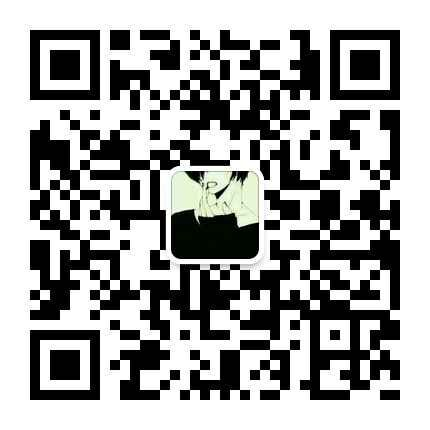
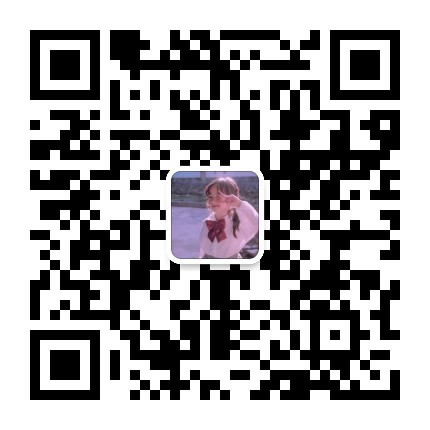
added codes

diff --git a/index.html b/index.html
@@ -9,7 +9,7 @@
     <meta name="apple-mobile-app-status-bar-style" content="black">
    
     <meta name="description" content="一只叫做黑夜的阿宅，想成为家喻户晓的大侠">
-    <meta name="keywords" content="二次元，宅属性，前端，编程，全栈，绘画，设计">
+    <meta name="keywords" content="爬虫，后端，前端，编程，全栈，设计">
     <meta http-equiv="X-UA-Compatible" content="IE=edge,chrome=1" />
     <meta http-equiv="X-UA-Compatible" content="IE=edge">
     <meta name="author" content="cononico">
@@ -31,7 +31,7 @@
                 <ul>
                     <li>&nbsp;&nbsp;&nbsp;&nbsp;&nbsp;&nbsp;&nbsp;&nbsp;</li>
                     <li>&nbsp;&nbsp;<img class="logo_img" src="images/upload/head.jpg"></li>
-                    <li><h2>描述</h2></li>
+                    <li><h2>崔永华的简历</h2></li>
                 </ul>
             </nav>
         </div>
@@ -67,7 +67,7 @@
                             <span class="github_icon"></span>
                             <span class="github_text"><p class="item_name">GitHub</p></span>
                         </a>
-                        <a href="https://github.com/cuiyonghua6" class="weibo_a" id="weibo_a" target="_blank">
+                        <a href="http://123.56.67.212:9005" class="weibo_a" id="weibo_a" target="_blank">
                             <span class="weibo_icon"></span>
                             <span class="weibo_text"><p class="item_name">个人网站</p> </span>
                         </a>
@@ -90,14 +90,13 @@
                         </div>
                     </div>
                 </div>
-                <h1 class="title">个人信息-黄石湖</h1>
+                <h1 class="title">个人信息</h1>
                 <!-- <h2 class="title_h2">千里之行，始于足下</h2> -->
                 <div id="box01_text">
-                    <p class="box01_p">学&nbsp;&nbsp;校：郑州大学&nbsp;&nbsp;&nbsp;&nbsp;&nbsp;&nbsp;专业：计算机科学与技术</p>
-                    <p class="box01_p">学&nbsp;&nbsp;校：郑州大学&nbsp;&nbsp;&nbsp;&nbsp;&nbsp;&nbsp;手机号：13269261967</p>
-                    <p class="box01_p">学&nbsp;&nbsp;校：郑州大学&nbsp;&nbsp;&nbsp;&nbsp;&nbsp;&nbsp;手机号：13269261967</p>
-                    <p class="box01_p">手机号：13269261967    英&nbsp;&nbsp;语：英语六级</p>
-                    <p class="box01_p">邮&nbsp;&nbsp;箱：cshiua_78@163.com</p>
+                    <p class="box01_p">姓名:崔永华&nbsp;&nbsp;学历:本科&nbsp;&nbsp;专业：计算机科学与技术</p>
+                    <p class="box01_p">学校:郑州大学(211)&nbsp;&nbsp;现居住地:北京</p>
+                    <p class="box01_p">英语水平:英语六级&nbsp;&nbsp;手机号：13269261967&nbsp;&nbsp;邮箱:cui_yonghua6@163.com</p>
+                    <p class="box01_p"></p>
                 </div>
             </div>
             <div class="arrow_div">
@@ -113,10 +112,10 @@
                     <div class='bar mint' data-percent='70' data-skill='Python'></div>
                     <div class='bar red' data-percent='50' data-skill='Java'></div>
                     <div class='bar lila' data-percent='50' data-skill='前端(JavaScript, jQuery, Ajax)'></div>
-                    <div class='bar orange' data-percent='50' data-skill='Node.js'></div>
-                    <div class='bar gray' data-percent='30' data-skill='Java || C++'></div>
-                    <div class="bar blue" data-percent='50' data-skill='PS&AE&PR&AI'></div>
-                    <div class="bar green" data-percent='60' data-skill='绘画'></div>
+                    <div class='bar orange' data-percent='50' data-skill='数据库'></div>
+                    <div class='bar gray' data-percent='30' data-skill='linux, shell等'></div>
+                    <div class="bar blue" data-percent='55' data-skill='flask'></div>
+                    <div class="bar green" data-percent='80' data-skill='爬虫，反爬'></div>
                 </div>
                 <div id="box02_text">
                     <h1>About Skill</h1>
@@ -128,9 +127,9 @@
                     <p>5. 熟练掌握linux的常用命令，git，shell，熟悉Docker等部署容器；</p>
                     <p>6. 掌握常见的数据结构和算法，以及设计模式；</p>
                     <p>7. 熟练掌握MySQL，PostgreSQL，Redis，MongoDB等常用数据库；</p>
-                    <p>8. 熟练使用Django框架和Flask框架，有生产环境Django开发经验；</p>
+                    <p>8. 熟练使用Django框架和Flask框架，有生产环境flask开发经验；</p>
                     <p>9. 了解Hadoop大数据生态，熟悉kafka，ElasticSearch，HDFS，Hive等。</p>
-                    <p>想成为一名</p>
+                    <p>10. 熟练使用eclipse, PyCharm, Idea, Fidder, VS Code等工具</p>
                 </div>
                 <div class="clear"></div>
             </div>
@@ -148,30 +147,32 @@
                 <ul id="timeUl" class="timeUl">
                     <li>
                         <div>
-                            <h1>2012-Now</h1>
-                            <p>淄博职业学院</p>
-                            <p>专业：机械制造与自动化</p>
-                            <p>在风气不佳的考试战场中险些挂科(poi~)</p>
-                            <p>最喜欢的科目是LOL<p>
-                            <p>现在正在愁于毕业设计</p>
+                            <h1>2014-2018</h1>
+                            <p>郑州大学</p>
+                            <p>专业：计算机科学与技术</p>
+                            <p>大学学习专业课程有java, 操作系统, html+css</p>
+                            <p>Linux, 数据库概论, 计算机网络, JavaScript<p>
+                            <p>计算机组成原理, 数据结构, MySQL, 软件工程等;</p>
+                            <p>并基于java完成酒店管理等项目</p>
                         </div>
                     </li>
                     <li>
                         <div>
-                            <h1>2015.7-2015.8</h1>
-                            <p>青花瓷酒店</p>
-                            <p>服务员</p>
-                            <p>没学到什么东西</p>
-                           <p>前途多艰</p>
+                            <h1>2018.4-2019.3</h1>
+                            <p>入职：北京易云时代有限公司</p>
+                            <p>职位：java后端工程师</p>
+                            <p>主要负责开发java后端，基于SSM，spring_boot等框架开发</p>
+                           <p>和维护现有项目。</p>
                         </div>
                     </li>
                     <li>
                        <div>
-                            <h1>2016.3-2016.4</h1>
-                            <p>小菜馆</p>
-                            <p>传菜生</p>
-                            
-                            <p>前途多艰</p>
+                            <h1>2019.4-今</h1>
+                            <p>入职：北京香侬慧语有限公司</p>
+                            <p>职位：后端工程师, 爬虫工程师</p>
+                            <p>主要负责爬虫需求, 包括日常需求，</p>
+                            <p>。。。</p>
+                            <p>。。。</p>
                         </div>
                     </li>
                     <li>
@@ -209,20 +210,20 @@
                                 <img src="images/upload/kapok.jpg">
                             </div>
                             <div class="hobby_img_info">
-                                <h1>绘画</h1>
-                                <h2>手绘&CG</h2>
+                                <h1>学习专业</h1>
+                                <h2>爬虫&后端</h2>
                             </div>
                         </div>
                         <div class="hobby_text_div">
                             <div class="hobby_img_info_mob">
-                                <h1>绘画/<a>手绘&CG</a></h1>
+                                <h1>爬虫/<a>手绘&CG</a></h1>
                             </div>
                             <p class="about_p">
-                                对于绘画的热爱一部分来自于对ACG的热爱,小学时就开始拿着笔头被要烂的铅笔瞎画,
-                                可惜父母和我都没发现这是个值得培养的爱好,以至于现在发展为一个手残.
+                                爬取需要的数据，破解各种反爬，很有成就感。。。
+                                。。
                             </p>
                             <p>
-                                比较擅长铅笔手绘动漫人物,SAI动漫人物的绘制(我是手残，上色渣渣).喜欢的画师是樋上至.
+                                比较擅长爬虫.
                                 </a>
                             </p>
                         </div>
@@ -234,20 +235,20 @@
                                 <img src="images/upload/acg.png">
                             </div>
                             <div class="hobby_img_info">
-                                <h1>ACG</h1>
-                                <h2>动漫&视频&lol</h2>
+                                <h1>休闲</h1>
+                                <h2>电影&音乐</h2>
                             </div>
                         </div>
                         <div class="hobby_text_div">
                             <div class="hobby_img_info_mob">
-                                <h1>ACG/<a>动漫&视频&lol</a></h1>
+                                <h1>ACG/<a>动漫&视频</a></h1>
                             </div>
                             <p class="about_p">
-                                入宅作《犬夜叉》,看完《Angle Beats!》深陷泥潭,最喜欢K社的作品(包括Galgame),
-                                崇拜麻枝准,喜欢的歌手是ClariS.是个典型的萝莉控重度患者.
+                                喜欢电影，如：与神同行，当幸福来敲门等。音乐。。
+                                。。
                             </p>
                             <p>
-                                动漫对我而言是和文学一样的文化,最具感染力的抒情方式,将来希望自己工作在二次元的领域.
+                                时常感触良多
                             </p>
                         </div>
                     </li>
@@ -258,20 +259,20 @@
                                 <img src="images/upload/reading.jpg">
                             </div>
                             <div class="hobby_img_info">
-                                <h1>文学</h1>
-                                <h2>历史&写作</h2>
+                                <h1>运动</h1>
+                                <h2>羽毛球&乒乓球</h2>
                             </div>
                         </div>
                         <div class="hobby_text_div">
                             <div class="hobby_img_info_mob">
-                                <h1>文学/<a>历史&写作</a></h1>
+                                <h1>运动/<a>羽毛球&乒乓球</a></h1>
                             </div>
                             <p class="about_p">
-                                和大多数人一样曾经也在可当上捧着一本小说看,以前喜欢小四韩寒马尔克斯村上春树,现在的兴趣
-                                转移到历史上去了,屌丝只有多读书才能提高自己的内涵.
+                                喜欢运动，身体是本钱。。。
+                                。。。
                             </p>
                             <p>
-                                此外也会写点东西,就是毅力不够，仍需磨砺.
+                                此外也会写点东西.
                             </p>
                         </div>
                     </li>
@@ -288,34 +289,19 @@
             <div class="foot_info_main">
                 <ul>
                     <li class="github_items">
-                        <a href="http://blog.yoomeili.cn" target="_blank">GitHub</a>
+                        <a href="https://github.com/cuiyonghua6" target="_blank">GitHub</a>
                     </li>
-                    <li class="google_items">
-                        <a href="http://blog.yoomeili.cn" target="_blank">Google+</a>
-                    
-                    </li>
-                    <li class="twitter_items">
-                        <a href="http://blog.yoomeili.cn" target="_blank">Twitter</a>
-                    
-                    </li>
-                    <li class="facebook_items">
-                        <a href="http://blog.yoomeili.cn" target="_blank">FaceBook</a>
-                    
-                    </li>
-                    <li class="weibo_items">
-                        <a href="http://blog.yoomeili.cn" target="_blank">微博</a>
-                    
-                    </li>
+
                     <li class="zhihu_items">
-                        <a href="http://blog.yoomeili.cn" target="_blank">知乎</a>
+                        <a href="https://www.zhihu.com/people/andy-10-56-45" target="_blank">知乎</a>
                     
                      </li>
                      <li class="blog_items">
-                        <a href="http://blog.yoomeili.cn" target="_blank">博客</a>
+                        <a href="https://blog.csdn.net/cui_yonghua" target="_blank">博客</a>
                     
                      </li>
                      <li class="email_items">
-                        <a href="mailto:min@coolecho.net" target="_blank">邮箱</a>
+                        <a href="https://mail.163.com/" target="_blank">邮箱</a>
                     </li>
                     <div class="clear"></div>
                 </ul>
@@ -335,10 +321,10 @@
                 </div>
             </div>
             <div class="foot_power">
-                <h3>©2016 Pwoerd 
+                <h3>©2020 Pwoerd
                     <a href="http://yoomeili.cn" title="Night" target="_blank"> Night's</a>
-                    <a href="https://blog.yoomeili.cn" title="IceEnd">黑夜主权</a>
-                    <a href="http://www.miitbeian.gov.cn/" title="beian" target="_blank">浙ICP备14039906号-1</a>
+                    <a href="https://blog.yoomeili.cn" title="IceEnd">cuiyonghua</a>
+                    <a href="http://www.miitbeian.gov.cn/" title="beian" target="_blank">手机号：13269261967</a>
                 </h3>
             </div>
         </foot>
